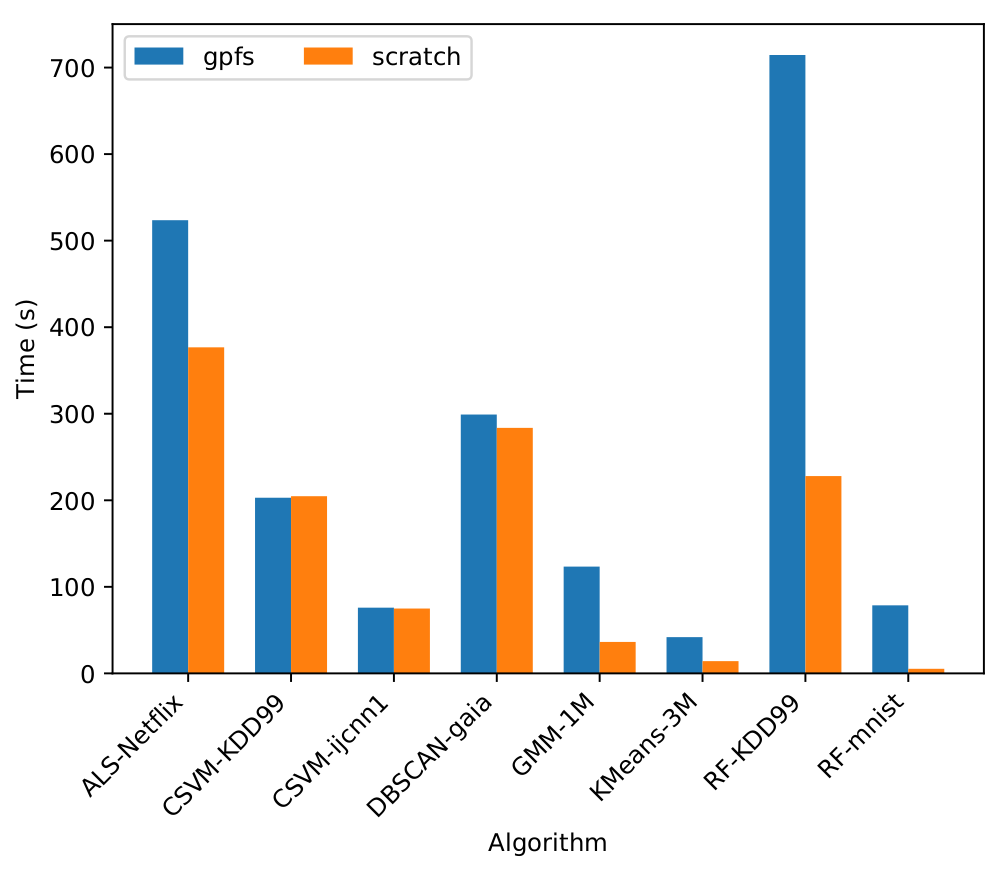
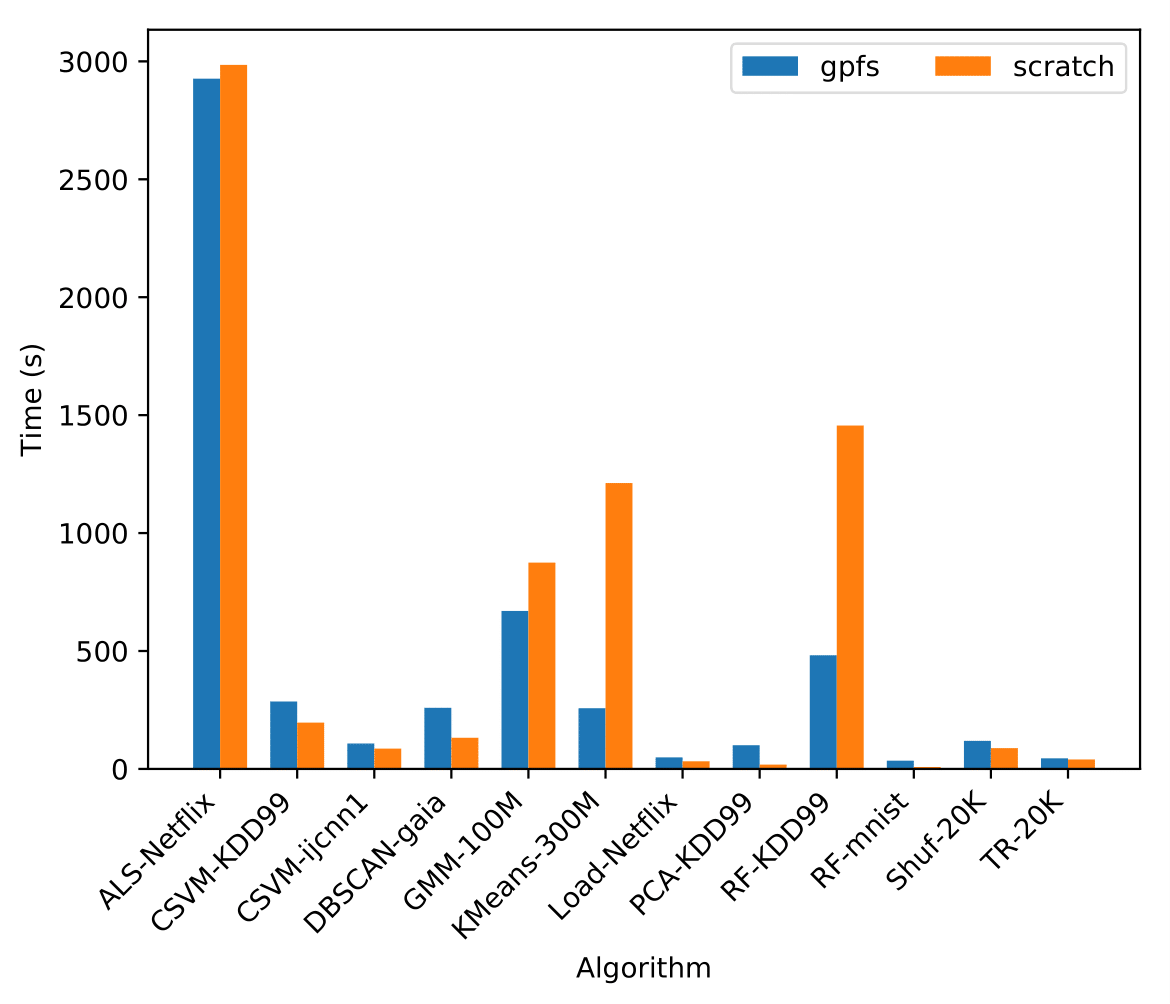
Release 0.6

diff --git a/tests/performance/mn4/scripts/performance.py b/tests/performance/mn4/scripts/performance.py
@@ -1,6 +1,8 @@
+import os
 import time
 
-from pycompss.api.api import compss_barrier
+from pycompss.api.api import compss_barrier, compss_wait_on
+from pycompss.api.task import task
 
 
 def measure(name, dataset_name, func, *args, **kwargs):
@@ -10,3 +12,9 @@ def measure(name, dataset_name, func, *args, **kwargs):
     func(*args, **kwargs)
     compss_barrier()
     print("==== TIME ==== ", name, dataset_name, time.time() - s_time)
+    print("In worker_working_dir: ", compss_wait_on(get_worker_working_dir()))
+
+
+@task(returns=1)
+def get_worker_working_dir():
+    return os.getcwd()

diff --git a/dislib/__init__.py b/dislib/__init__.py
@@ -22,7 +22,7 @@ else:
 
         __version__ = pkg_resources.require("dislib")[0].version
     except Exception as e:
-        print("Could not get installed dislib version. "
+        print("This dislib installation does not have a version number. "
               "Probably it was not installed with setup.py.\n%s" % e)
         __version__ = 'unknown'
 

diff --git a/CHANGELOG.md b/CHANGELOG.md
@@ -4,6 +4,36 @@ All notable changes to this project will be documented in this file.
 The format is based on [Keep a Changelog](https://keepachangelog.com/en/1.0.0/),
 and this project adheres to [Semantic Versioning](https://semver.org/spec/v2.0.0.html).
 
+## [0.6.0] - 2020-10-09
+### Added
+- User guide and glossary
+- Method to read from npy files
+- Support for one-dimensional data in ds-array
+- Parametrized ds-array tests
+- identity, full and zeros methods that generate ds-arrays filled with a value
+- ds-array operators: subtraction, division, conjugate, transpose, item setting, etc.
+- matmul, kronecker product and rechunk methods for of ds-arrays
+- Automatic deletion of ds-arrays when the GC is called
+- Multivariate linear regression
+- SVD (Singular Value Decomposition)
+- PCA using SVD
+- ADMM Lasso algorithm
+- Daura clustering algorithm
+
+### Changed
+- Improved performance testing scripts and added new tests
+- Allow executing applications with params using dislib exec
+- Extended and improved the tutorial notebook
+- Moved data loading routines to a different file as array.py was getting too big
+- apply_along_axis for sparse data now returns sparse ds-arrays
+- Updated dislib-base docker image
+- Replaced COLLECTION_INOUT parameters with COLLECTION_OUT when possible for improving performance
+- Updated requirement PyCOMPSs >= 2.7
+
+### Fixed
+- Some bugs in the ds-array
+- Internal inconsistencies in transformed_array of PCA
+
 ## [0.5.0] - 2019-11-25
 ### Added
 - Grid search and randomized search with cross-validation
@@ -116,7 +146,8 @@ process.
 - Moved the quickstart guide to a separate file and included it in the documentation
 - Fixed several bugs
 
-[Unreleased]: https://github.com/bsc-wdc/dislib/compare/v0.5.0...HEAD
+[Unreleased]: https://github.com/bsc-wdc/dislib/compare/v0.6.0...HEAD
+[0.5.0]: https://github.com/bsc-wdc/dislib/compare/v0.5.0...v0.6.0
 [0.5.0]: https://github.com/bsc-wdc/dislib/compare/v0.4.0...v0.5.0
 [0.4.0]: https://github.com/bsc-wdc/dislib/compare/v0.3.0...v0.4.0
 [0.3.0]: https://github.com/bsc-wdc/dislib/compare/v0.2.0...v0.3.0

diff --git a/docs/source/index.rst b/docs/source/index.rst
@@ -54,20 +54,24 @@ Labels on the horizontal axis represent algorithm-dataset, where:
 - ALS = AlternatingLeastSquares
 - CSVM = CascadeSVM
 - GMM = GaussianMixture
+- Load = :meth:`load_svmlight_file <dislib.load_svmlight_file>`
 - RF = RandomForestClassifier
+- Shuf = :meth:`shuffle <dislib.utils.base.shuffle>`
+- TR = :meth:`Array.transpose <dislib.data.array.Array.transpose>`
 
 and:
 
 - Netflix = The Netflix Prize `dataset <https://www.kaggle
   .com/netflix-inc/netflix-prize-data>`_.
-- ijcnn1 = The `ijcnn1 <https://www.csie.ntu.edu
-  .tw/~cjlin/libsvmtools/datasets/binary.html#ijcnn1>`_ dataset.
 - KDD99 = The `KDDCUP 1999 <http://kdd.ics.uci.edu/databases
   /kddcup99/kddcup99.html>`_ dataset.
+- ijcnn1 = The `ijcnn1 <https://www.csie.ntu.edu
+  .tw/~cjlin/libsvmtools/datasets/binary.html#ijcnn1>`_ dataset.
 - gaia = The Tycho-Gaia Astrometric Solution dataset [1]_.
-- 1M and 3M = 1 and 3 million random samples.
+- 100M and 300M = 100 and 300 million random samples, with 100 features each.
 - mnist = The `mnist <https://www.csie.ntu.edu
   .tw/~cjlin/libsvmtools/datasets/multiclass.html#mnist>`_ dataset.
+- 20K = Square matrix of 20 thousand rows and 20 thousand columns, with random values.
 
 
 Source code

diff --git a/QUICKSTART.md b/QUICKSTART.md
@@ -22,7 +22,7 @@ numpydoc >= 0.8.0 is requried to build the documentation.
 #### Installation steps 
 
 1. Check which PyCOMPSs version to install. 
-    * Latest dislib release requires **PyCOMPSs 2.5** or greater (check [here](https://github.com/bsc-wdc/dislib/releases) for information about other releases).
+    * Latest dislib release requires **PyCOMPSs 2.7** or greater (check [here](https://github.com/bsc-wdc/dislib/releases) for information about other releases).
     
 2. Install PyCOMPSs following these [instructions](https://compss-doc.readthedocs.io/en/2.7/Sections/01_Installation.html).
 
